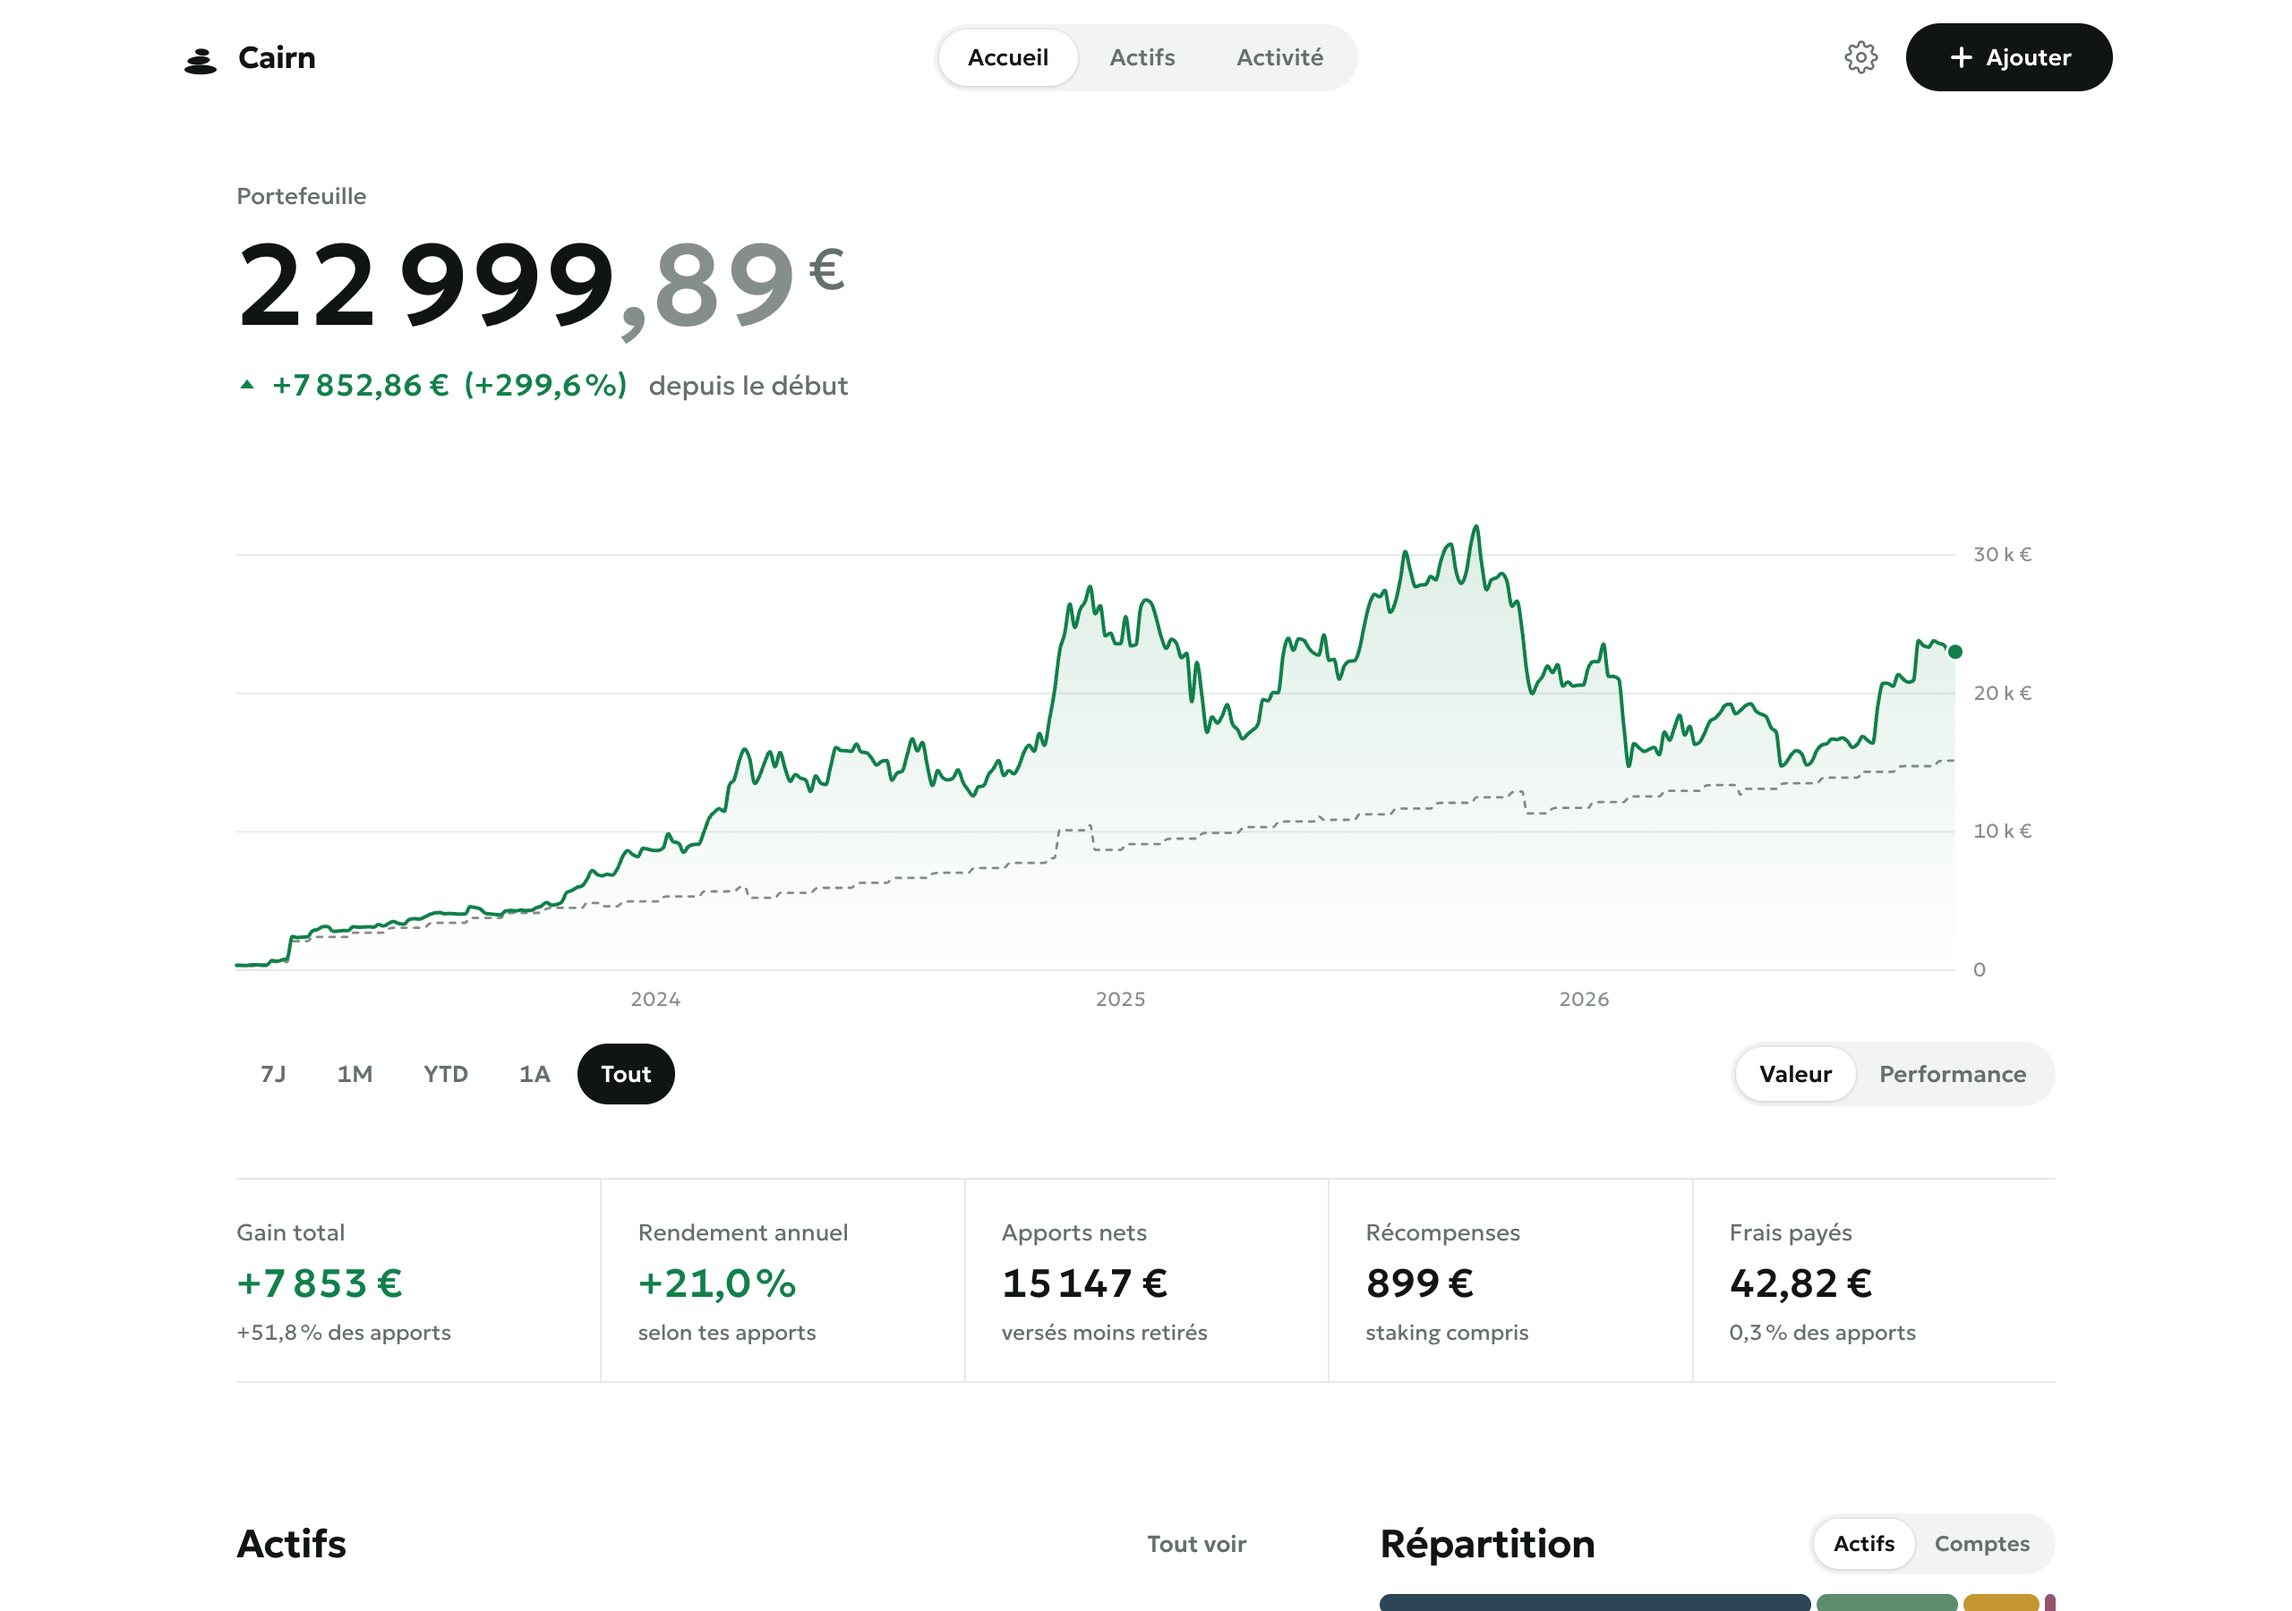
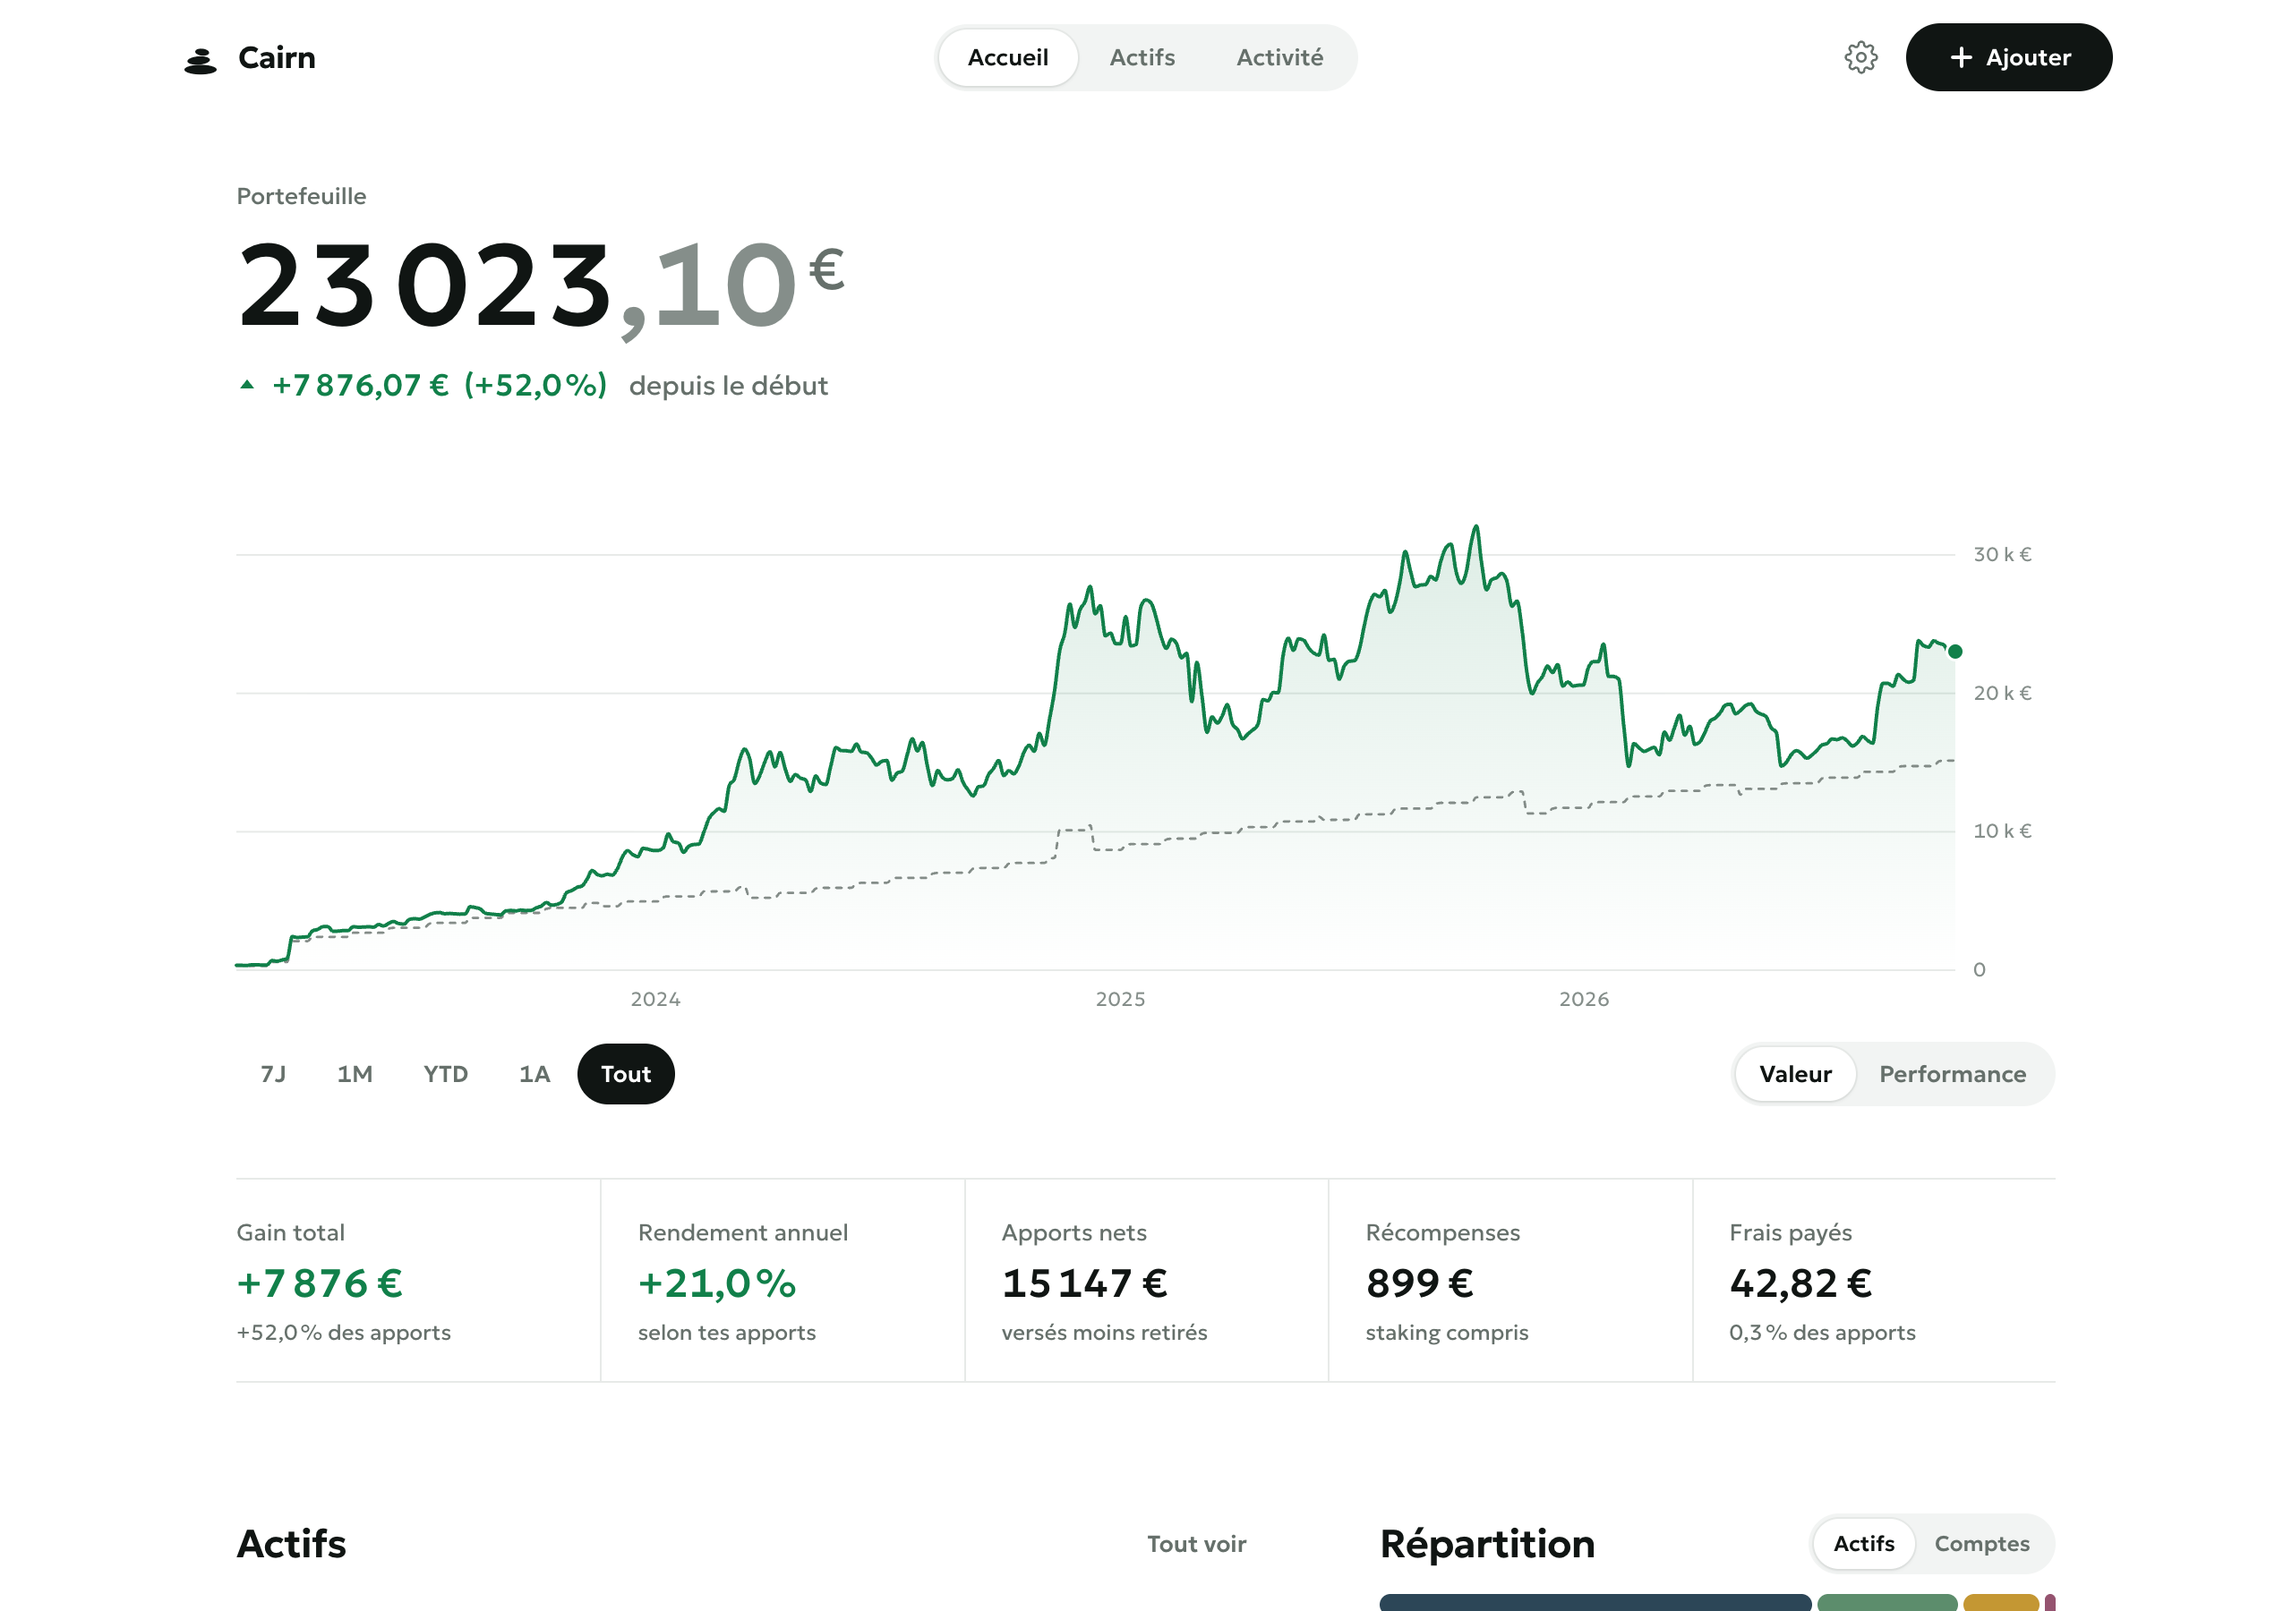
Accueil : le pourcentage d'une période rapporte le gain à ce qui était engagé ; le rendement pondéré par le temps seulement en mode Performance

Changed region(s): [[0.125, 0.1556, 0.375, 0.2489], [0.125, 0.7778, 0.1562, 0.8089]]

diff --git a/web/src/pages/Home.tsx b/web/src/pages/Home.tsx
@@ -36,6 +36,16 @@ export const SINCE: Record<PeriodKey, string> = {
 
 type View = "value" | "perf";
 
+/**
+ * The gain over what was at stake: the opening value plus the money put in
+ * since, net of what was taken out (never below the opening value). As the
+ * server's period figure (internal/perf.Simple).
+ */
+function simple(open: { v: number; i: number }, p: { v: number; i: number }): number | null {
+  const base = open.v + Math.max(0, p.i - open.i);
+  return base > 0.5 ? (p.v - p.i - (open.v - open.i)) / base : null;
+}
+
 /** Up or down, as a small triangle. */
 export function Arrow({ n }: { n: number }) {
   return (
@@ -100,7 +110,9 @@ export function Home({ rev, go }: { rev: number; go: (path: string) => void }) {
   const { pts, open } = series;
   const at = scrub !== null && scrub < pts.length ? pts[scrub] : null;
   const gain = at ? at.v - at.i - (open.v - open.i) : per.gain;
-  const ret = at ? at.x / (open.x || 1) - 1 : per.twr;
+  // Valeur: the gain over what was at stake; Performance: time-weighted.
+  const twr = at ? at.x / (open.x || 1) - 1 : per.twr;
+  const pctOf = at ? simple(open, at) : per.pct;
 
   const changePeriod = (v: PeriodKey) => {
     setPeriod(v);
@@ -117,14 +129,26 @@ export function Home({ rev, go }: { rev: number; go: (path: string) => void }) {
         <p className="hero-value num">
           <BigEuros value={at ? at.v : o.total.value} instant={!!at} />
         </p>
-        <p className={`hero-change num ${tone(gain)}`}>
-          <Arrow n={gain} />
-          <Num value={gain} instant={!!at} format={(v) => eur(v, { sign: true, cents: true })} />
-          <span>
-            (<Num value={ret} instant={!!at} format={(v) => pct(v, { sign: true })} />)
-          </span>
-          <span className="since">{at && open.d ? "depuis le " + day(utc(open.d)) : SINCE[period]}</span>
-        </p>
+        {view === "value" ? (
+          <p className={`hero-change num ${tone(gain)}`}>
+            <Arrow n={gain} />
+            <Num value={gain} instant={!!at} format={(v) => eur(v, { sign: true, cents: true })} />
+            {pctOf !== null && (
+              <span>
+                (<Num value={pctOf} instant={!!at} format={(v) => pct(v, { sign: true })} />)
+              </span>
+            )}
+            <span className="since">{at && open.d ? "depuis le " + day(utc(open.d)) : SINCE[period]}</span>
+          </p>
+        ) : (
+          <p className={`hero-change num ${tone(twr)}`}>
+            <Arrow n={twr} />
+            <Num value={twr} instant={!!at} format={(v) => pct(v, { sign: true })} />
+            <span className="since">
+              performance {at && open.d ? "depuis le " + day(utc(open.d)) : SINCE[period]}, hors apports
+            </span>
+          </p>
+        )}
       </section>
 
       <section className="graph" aria-label="Évolution">

diff --git a/web/src/api.ts b/web/src/api.ts
@@ -268,7 +268,8 @@ export interface Overview {
   step: "day" | "week";
   /** d: day, v: value, i: invested, x: time-weighted index (1 at the start). */
   points: { d: string; v: number; i: number; x: number }[];
-  periods: { key: PeriodKey; from: number; start: number; end: number; gain: number; twr: number }[];
+  /** gain: beyond money put in or taken out; pct: gain over what was at stake (null when nothing was); twr: time-weighted. */
+  periods: { key: PeriodKey; from: number; start: number; end: number; gain: number; pct: number | null; twr: number }[];
   total: {
     value: number;
     invested: number;

diff --git a/internal/perf/perf_test.go b/internal/perf/perf_test.go
@@ -140,3 +140,23 @@ func TestMonthly(t *testing.T) {
 	near(t, "value", m[1].Value, 129)
 	near(t, "invested", m[0].Invested, 100)
 }
+
+// The gain over what was at stake: the opening value and what came in since.
+func TestSimple(t *testing.T) {
+	// The whole history: 1 000 € in, worth 1 500 €: +50 %.
+	pct, ok := Simple(0, 0, 1500, 1000)
+	if !ok {
+		t.Fatal("no base")
+	}
+	near(t, "all", pct, 0.5)
+	// Opens at 1 000 € (800 € in), 500 € more put in, ends at 1 650 €:
+	// gain 150 € on 1 500 € at stake.
+	pct, _ = Simple(1000, 800, 1650, 1300)
+	near(t, "period", pct, 0.1)
+	// 600 € taken out: gain 50 € on the 1 000 € at the opening.
+	pct, _ = Simple(1000, 800, 450, 200)
+	near(t, "withdrawn", pct, 0.05)
+	if _, ok := Simple(0, 0, 0, -10); ok {
+		t.Fatal("nothing at stake")
+	}
+}

diff --git a/internal/books/stats_test.go b/internal/books/stats_test.go
@@ -168,6 +168,8 @@ func TestOverview(t *testing.T) {
 	}
 	all := byKey["Tout"]
 	near(t, "all gain", all.Gain, 558)
+	// Over the whole history: the gain over the net contributions.
+	near(t, "all pct", *all.Pct, 558.0/402)
 	near(t, "all twr", all.TWR, last.X-1)
 	// This year: BTC went from 40 000 to 60 000 € on the first day.
 	ytd := byKey["YTD"]
@@ -176,6 +178,11 @@ func TestOverview(t *testing.T) {
 	}
 	near(t, "ytd twr", ytd.TWR, 0.5)
 	near(t, "ytd gain", ytd.Gain, 0.026*20000)
+	// At stake: the 1 040 € held at the eve (the sale took money out): +50 %,
+	// as BTC did.
+	near(t, "ytd pct", *ytd.Pct, 0.5)
+	// The last month: nothing moved.
+	near(t, "1M pct", *byKey["1M"].Pct, 0)
 	near(t, "1M twr", byKey["1M"].TWR, 0)
 }
 

diff --git a/internal/perf/perf.go b/internal/perf/perf.go
@@ -179,3 +179,17 @@ func Monthly(days []Day) []Month {
 	}
 	return out
 }
+
+// Simple is a period's gain over what was at stake in it: the value at its
+// opening plus the money put in during it, net of what was taken out (for
+// a whole history, the net contributions). Money taken out does not shrink
+// the stake below the opening value: selling after a rise would otherwise
+// inflate the figure. ok is false when nothing was at stake.
+func Simple(openValue, openInvested, endValue, endInvested float64) (pct float64, ok bool) {
+	base := openValue + max(0, endInvested-openInvested)
+	if base <= minBase {
+		return 0, false
+	}
+	gain := endValue - endInvested - (openValue - openInvested)
+	return gain / base, true
+}

diff --git a/internal/books/stats.go b/internal/books/stats.go
@@ -97,7 +97,9 @@ type Period struct {
 	Start float64 `json:"start"` // value at the opening
 	End   float64 `json:"end"`
 	Gain  float64 `json:"gain"`
-	TWR   float64 `json:"twr"`
+	// Pct: the gain over what was at stake (perf.Simple), nil when nothing was.
+	Pct *float64 `json:"pct"`
+	TWR float64  `json:"twr"`
 }
 
 // periods measures each period over days.
@@ -124,6 +126,10 @@ func periods(days []perf.Day, today time.Time) []Period {
 		p.Start = r2(openV)
 		p.Gain = r2(last.Value - last.Invested - (openV - openI))
 		p.TWR = r6(perf.TWR(f, from+1, len(f)))
+		if pct, ok := perf.Simple(openV, openI, last.Value, last.Invested); ok {
+			pct = r6(pct)
+			p.Pct = &pct
+		}
 		out = append(out, p)
 	}
 	return out

diff --git a/README.md b/README.md
@@ -4,7 +4,7 @@ Where my crypto stands: what it is worth, what I put in, what it became, and how
 
 ![Accueil](docs/screenshots/accueil-clair.png)
 
-- **Accueil**: the value and its change over 7J, 1M, YTD, 1A or Tout; a chart to scrub with a finger (value against money put in, or performance time-weighted so deposits are not gains); gain, yearly return (money-weighted), net contributions, rewards, fees; each coin with its month; allocation by coin or account, stablecoins apart.
+- **Accueil**: the value and its change over 7J, 1M, YTD, 1A or Tout, in euros and as a share of what was at stake (the opening value plus money put in since); a chart to scrub with a finger (value against money put in, or performance time-weighted so deposits are not gains); gain, yearly return (money-weighted), net contributions, rewards, fees; each coin with its month; allocation by coin or account, stablecoins apart.
 - **Statistiques** (on Accueil): monthly returns year by year, money put in each month, cumulative rewards, what came from contributions, rewards and the market, gain by coin.
 - **Actifs**: every coin, held or sold. One page each: its price with my average cost and my buys and sales, the quantity held, unrealized and realized gain, rewards, fees, its operations.
 - **Activité**: every operation by month, by account or coin, searchable. Add, change or remove those entered by hand or imported.
